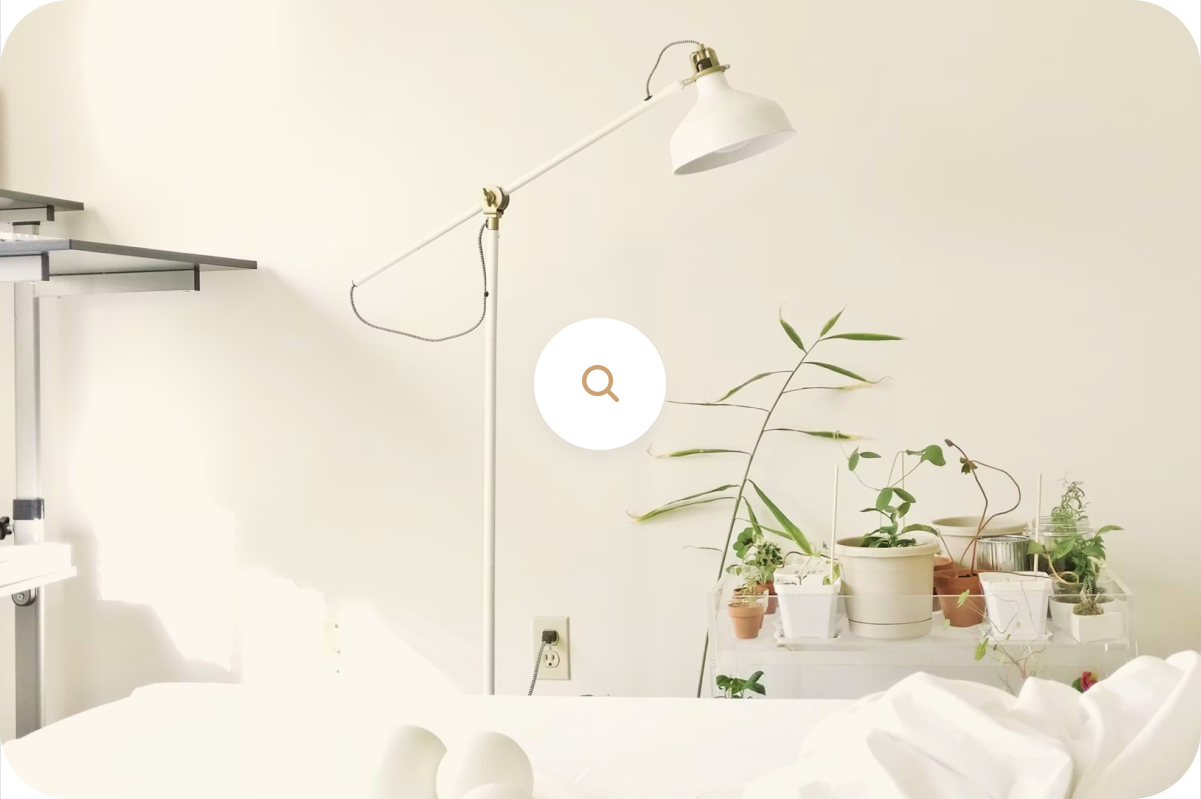
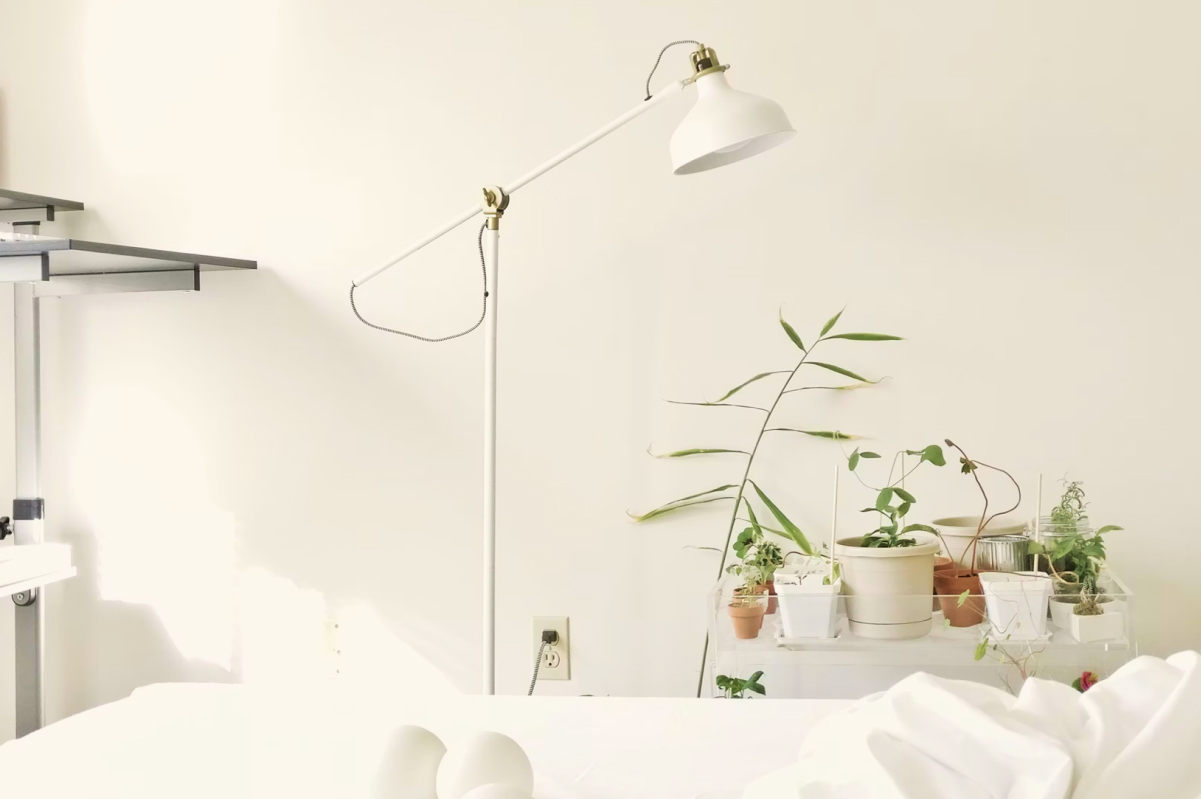
Task completed

diff --git a/src/blocks/ProjectDetailsSliderItem.vue b/src/blocks/ProjectDetailsSliderItem.vue
@@ -15,7 +15,43 @@
         <button
             class="zoom-btn"
             @click="showPopUp">
-          ZOOM
+            <svg xmlns="http://www.w3.org/2000/svg" width="172" height="172" viewBox="0 0 172 172" fill="none">
+              <g filter="url(#filter0_d_1418_52)">
+                <circle cx="86" cy="76" r="66" fill="white"/>
+                <path d="M104.433 90.2861L96.0452 81.8984C98.0646 79.21 99.1547
+                 75.9378 99.151 72.5755C99.151 63.9872 92.1638 57 83.5755
+                 57C74.9872 57 68 63.9872 68 72.5755C68 81.1638 74.9872 88.151
+                  83.5755 88.151C86.9378 88.1547 90.21 87.0646 92.8984
+                  85.0452L101.286 93.4329C101.711 93.8125 102.264 94.0151
+                  102.834 93.9991C103.403 93.9832 103.945 93.7499 104.347
+                  93.3472C104.75 92.9445 104.983 92.403 104.999 91.8337C105.015
+                  91.2644 104.812 90.7107 104.433 90.2861ZM72.4501
+                  72.5755C72.4501 70.3751 73.1026 68.2242 74.3251
+                  66.3946C75.5476 64.565 77.2851 63.1391 79.318 62.297C81.3509
+                  61.455 83.5879 61.2346 85.746 61.6639C87.9041 62.0932 89.8864
+                  63.1528 91.4423 64.7087C92.9983 66.2646 94.0578 68.247 94.4871
+                  70.4051C94.9164 72.5632 94.6961 74.8001 93.854 76.833C93.012
+                  78.8659 91.586 80.6035 89.7564 81.8259C87.9269 83.0484 85.7759
+                  83.7009 83.5755 83.7009C80.626 83.6974 77.7982 82.5241 75.7126
+                  80.4384C73.627 78.3528 72.4537 75.5251 72.4501 72.5755Z" fill="#CDA274"/>
+              </g>
+            <defs>
+            <filter id="filter0_d_1418_52" x="0" y="0" width="172" height="172"
+              filterUnits="userSpaceOnUse" color-interpolation-filters="sRGB">
+              <feFlood flood-opacity="0" result="BackgroundImageFix"/>
+              <feColorMatrix in="SourceAlpha" type="matrix"
+                values="0 0 0 0 0 0 0 0 0 0 0 0 0 0 0 0 0 0 127 0" result="hardAlpha"/>
+              <feOffset dy="10"/>
+              <feGaussianBlur stdDeviation="10"/>
+              <feComposite in2="hardAlpha" operator="out"/>
+              <feColorMatrix type="matrix"
+                values="0 0 0 0 0.752941 0 0 0 0 0.752941 0 0 0 0 0.752941 0 0 0 0.25 0"/>
+              <feBlend mode="normal" in2="BackgroundImageFix" result="effect1_dropShadow_1418_52"/>
+              <feBlend mode="normal" in="SourceGraphic"
+                in2="effect1_dropShadow_1418_52" result="shape"/>
+            </filter>
+          </defs>
+            </svg>
         </button>
     </div>
     <PopUpImage
@@ -27,7 +63,7 @@
 </template>
 
 <script>
-import PopUpImage from './PopUpImage.vue';
+import PopUpImage from '@/blocks/PopUpImage.vue';
 
 export default {
   name: 'ProjectDetailsSliderItem',
@@ -111,10 +147,11 @@ export default {
     cursor: pointer;
     outline: none;
     border: none;
-    width: 132px;
-    height: 132px;
+    display: flex;
+    justify-content: center;
+    align-items: center;
     border-radius: 50%;
-    background-color: #fff;
+    background-color: transparent;
     filter: drop-shadow(0 10px 20px rgba(192, 192, 192, 0.25));
     transition: opacity .3s;
 }
